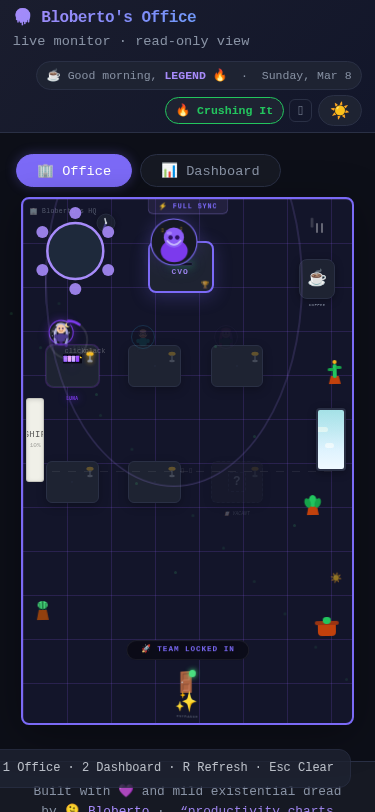
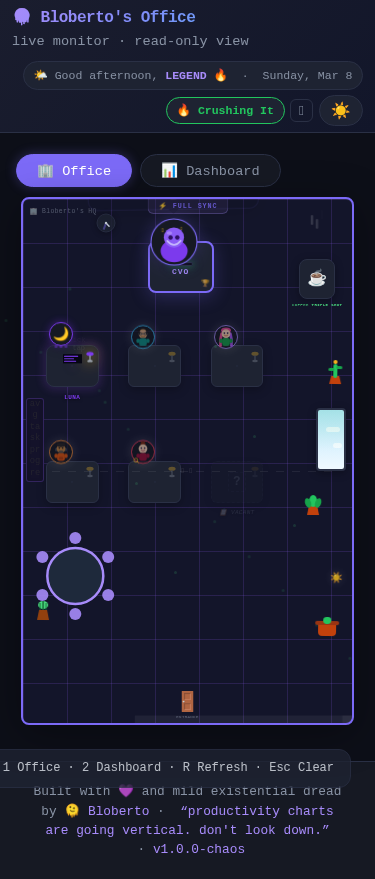
🎨 Vibe aura: reactive border/shadow on office floor

diff --git a/src/Office.css b/src/Office.css
@@ -59,7 +59,7 @@
   box-shadow:
     0 8px 40px rgba(0, 0, 0, 0.35),
     inset 0 1px 0 rgba(255, 255, 255, 0.05);
-  transition: background-color 0.3s ease, border-color 1s ease, box-shadow 1s ease;
+  transition: background-color 0.3s ease, border-color 1.5s ease, box-shadow 1.5s ease;
 }
 
 .office-floor[data-vibe='crushing'] { border-color: #a78bfa; box-shadow: 0 8px 40px rgba(0,0,0,0.35), 0 0 60px rgba(167,139,250,0.18), inset 0 0 30px rgba(167,139,250,0.05); }
@@ -289,6 +289,21 @@
 @keyframes monitor-blink {
   0%, 89% { opacity: 1; }
   90%, 100% { opacity: 0.85; }
+}
+
+/* ── Ghost desk: sleeping monitor pulse ── */
+.desk-monitor-screen--sleep {
+  opacity: 0.22;
+  filter: grayscale(0.7) brightness(0.5);
+  animation: screen-sleep-pulse 5s ease-in-out infinite;
+  background: var(--accent, #6366f1);
+  width: 100%;
+  height: 100%;
+  border-radius: 2px;
+}
+@keyframes screen-sleep-pulse {
+  0%, 100% { opacity: 0.22; }
+  50% { opacity: 0.35; }
 }
 
 /* ── Coffee corner (top right) ── */

diff --git a/src/Office.jsx b/src/Office.jsx
@@ -1073,6 +1073,11 @@ export default function Office({ workers = [], roster = [], isSyncing = false, a
               ) : (
                 <div className="desk-character">
                   <div className="desk__monitor" />
+                  {occ.ghost && (
+                    <div className="desk-monitor-screen">
+                      <div className="desk-monitor-screen--sleep" />
+                    </div>
+                  )}
                   {isWorking && (DESK_SCREEN_SVG[occ.worker.id] || true) && (
                     <div className="desk-monitor-screen">
                       {DESK_SCREEN_SVG[occ.worker.id] || (
